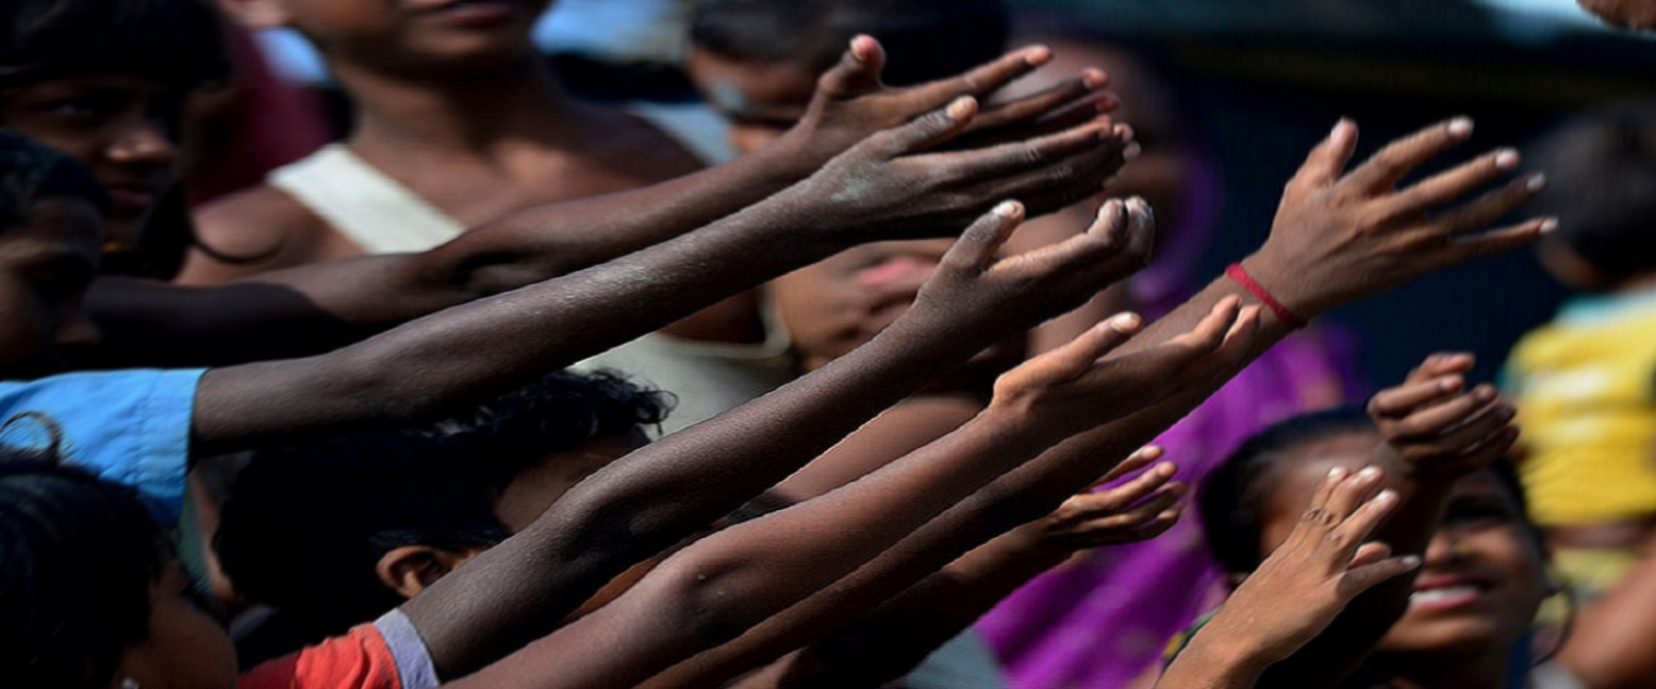
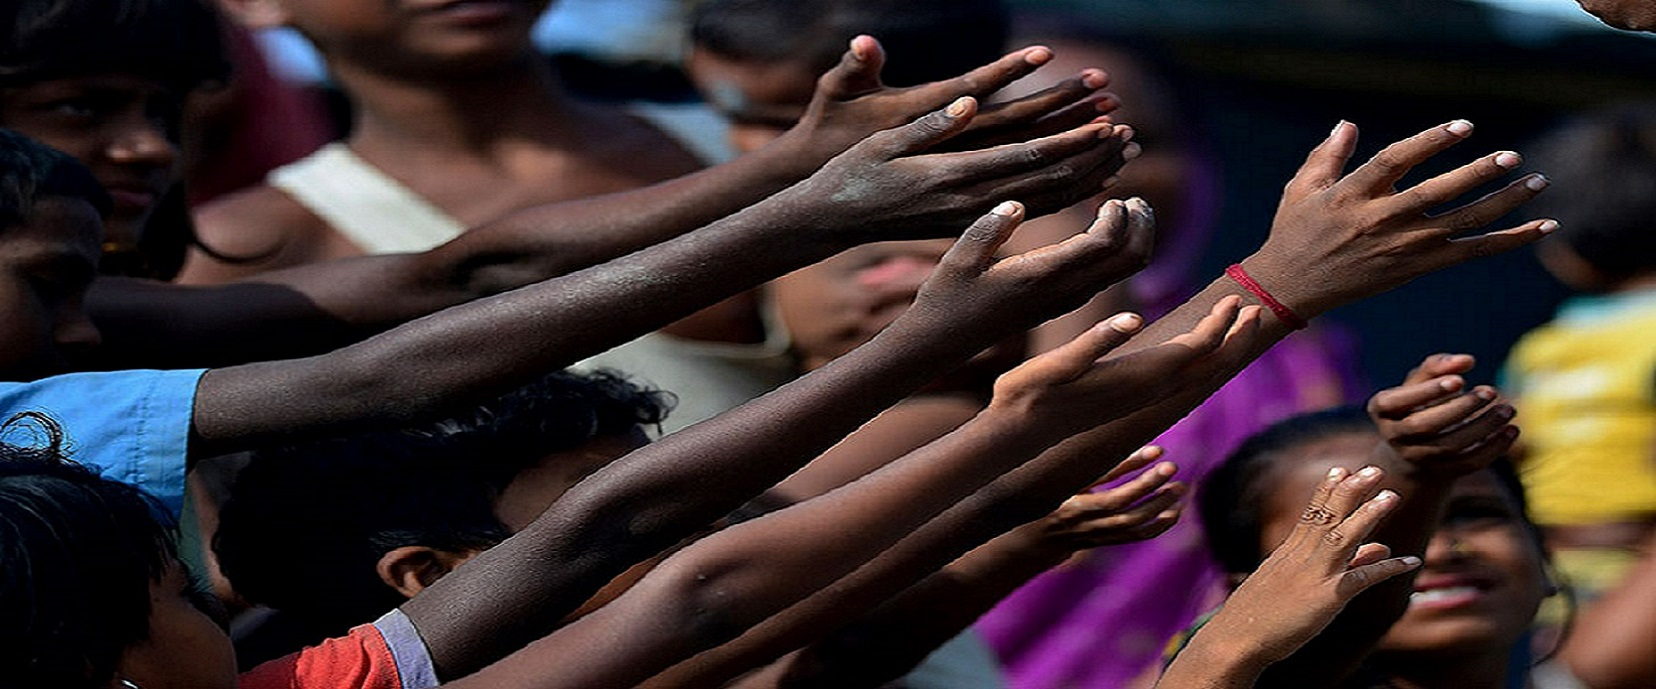
Done

diff --git a/styles/style.css b/styles/style.css
@@ -14,8 +14,10 @@ header{
     text-align: center;
     background-color: beige;
     padding: 130px 230px;
-    background-image: url('../images/donation13.jpg');
+    background-image: linear-gradient(to right, rgba(0, 0, 0, .7), rgba(0, 0, 0, .1)), url('../images/donation13.jpg');
     background-repeat: no-repeat;
+    background-size: cover;
+    background-attachment: fixed;
     background-position: center;
 }
 
